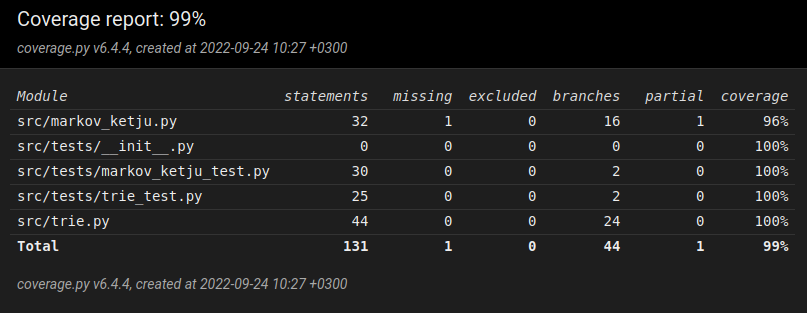
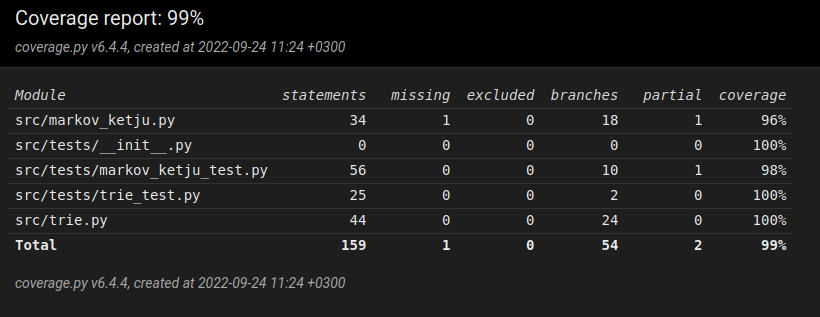
Dokumentoi koodia

diff --git a/src/markov_ketju.py b/src/markov_ketju.py
@@ -1,14 +1,29 @@
-from trie import Trie
+"""Omaa trie-tietorakennetta käyttävä n-asteen Markovin ketju.
+Käyttö:
+from markov_ketu import MarkovKetju
+"""
 from collections import deque
 from random import choices
+from trie import Trie
 
 class MarkovKetju:
+    """n-asteen Markovin ketju"""
     def __init__(self, aste=1, trie=Trie()):
+        """Aste voi olla mikä tahansa kokonaisluku n > 0. Uuden trien luomisen sijaan
+        ketjulle voi syöttää valmiin trien.
+        """
+        if aste < 1:
+            raise ValueError("Aste ei voi olla < 1!")
+
         self._trie = trie
         self._aste = aste
         self._menneet_tilat = deque()
 
     def kasittele_opetusdata(self, opetusdata: list):
+        """Lukee opetusdata Markovin ketjun omaan trie-rakenteeseen.
+        Opetusdatan muoto on lista, jossa mikä tahansa määrä iteroitavia näytteitä. Esim:
+            ["ABC", "ABB", "AAAAAA"]
+        """
         self._trie = Trie()
 
         for jono in opetusdata:
@@ -22,19 +37,28 @@ class MarkovKetju:
                     self._trie.lisaa(alkio)
 
     def aseta_alkuosa(self, alkuosa):
+        """Asettaa alkuosan, jonka perusteella Markovin ketju luo seuraavan merkin.
+        Alkuosan pituus on sama kuin ketjun aste, liian pitkästä alkuosasta jätetään
+        loppu pois.
+        """
         if len(alkuosa) < self._aste:
             raise ValueError("Liian lyhyt alkuosa!")
         self._menneet_tilat = deque([alkuosa[i] for i in range(0, self._aste)])
 
     def seuraava(self):
+        """Antaa seuraavan merkin muilla funktioilla annettujen opetusdata ja alkuosan
+        perusteella. Päivittää alkuosan automaattisesti seuraavaa askelta varten
+        """
         if len(self._menneet_tilat) < self._aste:
             raise ValueError("Markovin ketjulle ei ole asetettu sopivaa alkuosaa!")
 
         todennakoisyydet, merkit = self._trie.etsi_seuraavat(self._menneet_tilat)
 
         if todennakoisyydet and merkit:
+            #Valitsee merkeistä yhden, valinta painotetaan triessä olevien todennäköisyyksien avulla
             seuraava = choices(merkit, weights=todennakoisyydet)[0]
 
+            #Päivittää alkuosan seuraavaa iteraatiota varten
             self._menneet_tilat.popleft()
             self._menneet_tilat.append(seuraava)
 

diff --git a/src/tests/markov_ketju_test.py b/src/tests/markov_ketju_test.py
@@ -2,6 +2,10 @@ import unittest
 from markov_ketju import MarkovKetju
 
 class TestMarkovKetju(unittest.TestCase):
+
+    def test_0_aste(self):
+        self.assertRaises(ValueError, MarkovKetju, 0)
+
     def test_seuraava_1_aste(self):
         ketju = MarkovKetju(1)
         opetusdata = ["ABCDEA"]

diff --git a/src/trie.py b/src/trie.py
@@ -1,4 +1,5 @@
 """Markovin ketjuille tarkoitettu trie-tietorakenteen implementaatio.
+Käyttö:
 from trie import Trie
 """
 
